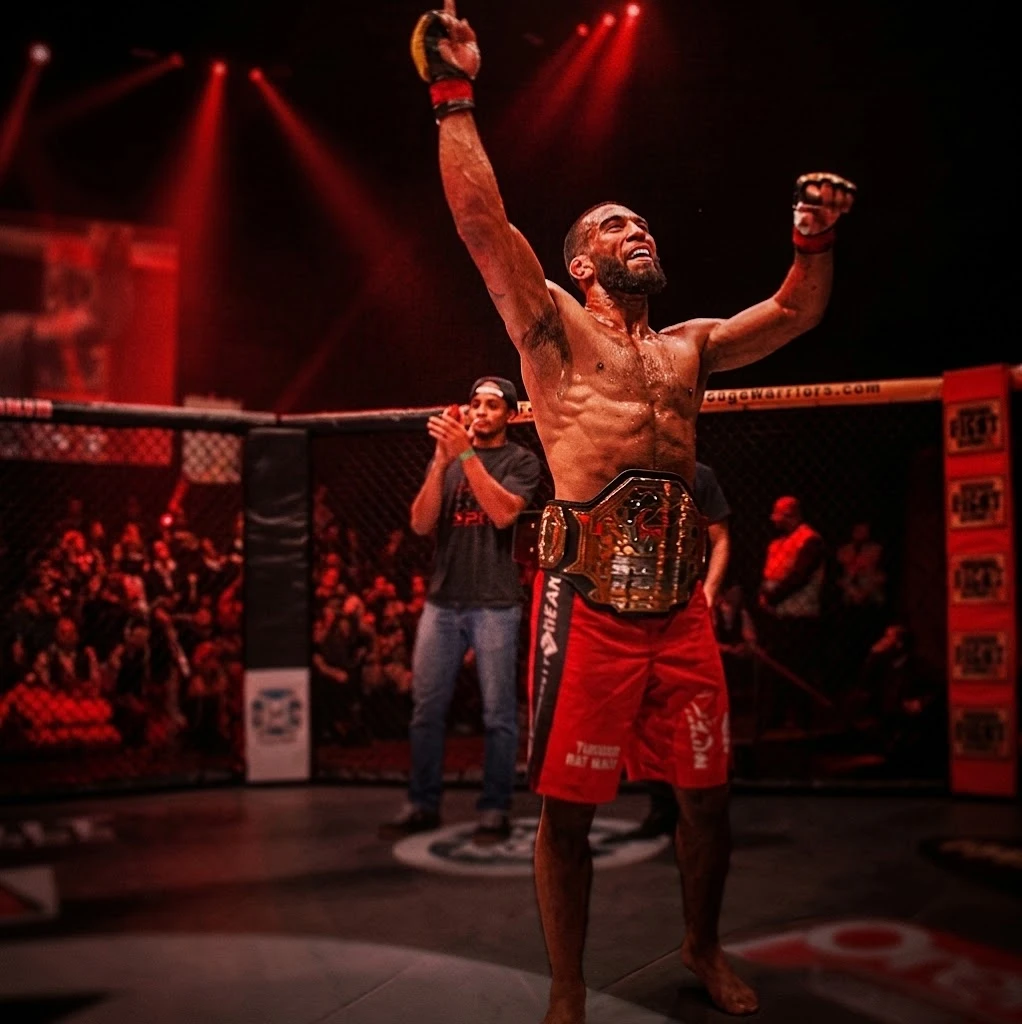
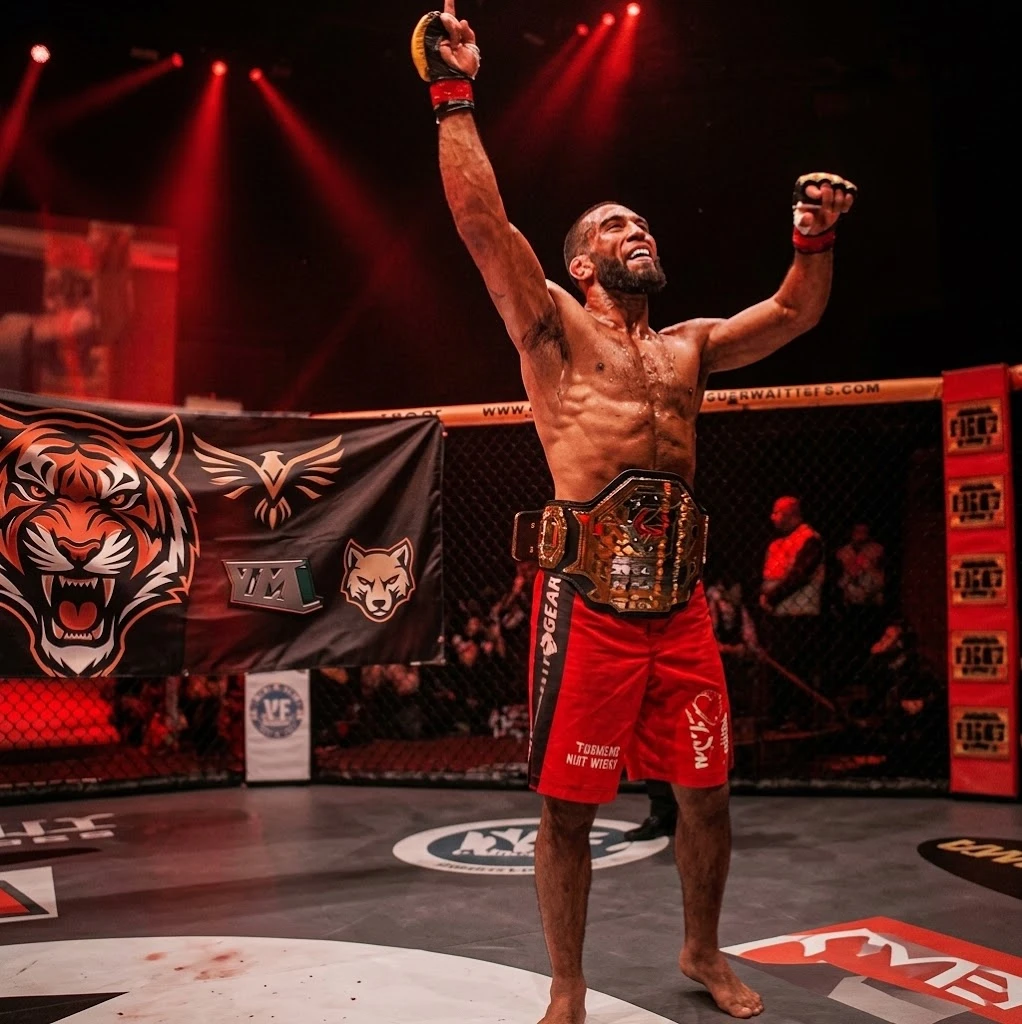
Replace hero background with new championship victory photo

diff --git a/index.html b/index.html
@@ -6,7 +6,7 @@
   <meta name="description" content="Alers Martial Arts — Premier BJJ, MMA & Striking gym in Pembroke Pines & Miramar, FL. Kids, teen, and adult programs. Summer Camp Ages 5-12. Best of Pembroke Pines 2023. Free trial class!">
   <meta name="keywords" content="BJJ Pembroke Pines, MMA gym Pembroke Pines, kids martial arts Pembroke Pines, Brazilian Jiu-Jitsu, kickboxing, martial arts Miramar FL, kids summer camp Miramar, youth martial arts Broward">
   <title>Alers Martial Arts | BJJ · MMA · Striking | Pembroke Pines & Miramar, FL</title>
-  <link rel="stylesheet" href="style.css?v=7">
+  <link rel="stylesheet" href="style.css?v=8">
   <link rel="preconnect" href="https://fonts.googleapis.com">
   <link rel="preconnect" href="https://fonts.gstatic.com" crossorigin>
   <link href="https://fonts.googleapis.com/css2?family=Bebas+Neue&family=Inter:wght@300;400;500;600;700;900&display=swap" rel="stylesheet">

diff --git a/style.css b/style.css
@@ -470,7 +470,7 @@ section{padding:6rem 0}
   position:absolute;
   right:0;top:0;bottom:0;
   width:65%;
-  background:url('hero-bg.webp') center top / cover no-repeat;
+  background:url('hero-bg.webp?v=2') center top / cover no-repeat;
   -webkit-mask-image:linear-gradient(to right,
     transparent 0%,
     rgba(0,0,0,.4) 18%,
